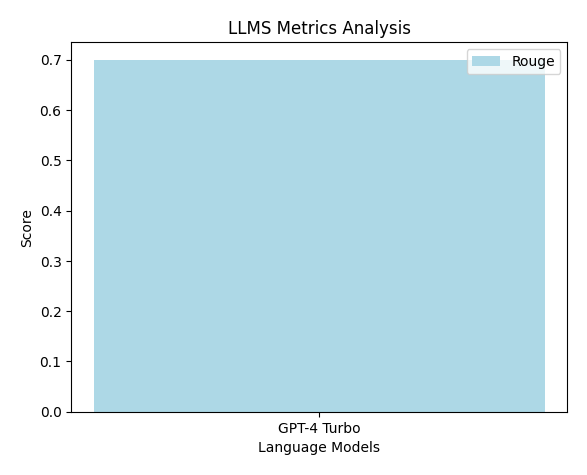
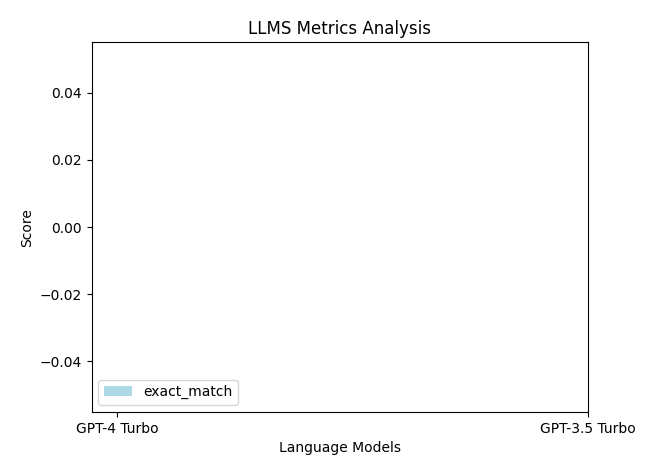
update

diff --git a/llm_code/pagesOfApp/pages/LLMS_Analysis.py b/llm_code/pagesOfApp/pages/LLMS_Analysis.py
@@ -1,3 +1,6 @@
+import logging
+from rouge_score import rouge_scorer
+
 import streamlit as st
 from openai import OpenAI
 import numpy as np
@@ -8,17 +11,17 @@ import sys
 sys.path.append('../..')
 from llm_code.app.api.endpoints.analysisAPI import create_prompt
 from llm_code.pagesOfApp.style.LLMS_Analysis_style import configure_streamlit_theme
-from llm_code.llm_metrics import Metrics
-import logging
-
+from llm_code.llm_metrics import Metrics, MetricsModel
+from evaluate import load
+from datasets import load_metric
 
 # Set up your OpenAI API key
-client = OpenAI(api_key=)
+client = OpenAI(api_key="")
 
 st.markdown(configure_streamlit_theme(), unsafe_allow_html=True)
 
 # Define available metrics
-available_metrics = ["Rouge", "Coherence", "Fluency", "Toxicity", "Bleu"]
+available_metrics = ["Rouge", "exact_match", "Fluency", "Toxicity", "Bleu"]
 
 # Define available language models with their corresponding model IDs
 available_models = {
@@ -51,7 +54,6 @@ async def add_prompt(prompt_text):
             print("Prompt added successfully!")
         else:
             print("Failed to add prompt. Please try again later.")
-
     except Exception as e:
         print(f"Error: {e}")
         logging.error(f"Error adding prompt: {e}")
@@ -67,16 +69,12 @@ def handle_database(prompt_text):
         st.error(f"Error adding prompt to database: {e}")
 
 
-# Main Streamlit app
 st.title("LLMS Response Generator and Metrics Analysis")
 
 # User input section for analysis
-prompt_analyze = st.text_input("Enter Prompt to Analyze", "Enter your prompt here...")
-selected_models = st.multiselect("Select Language Models", list(available_models.keys()), default=["GPT-4 Turbo"])
-selected_metrics = st.multiselect("Select Metrics", available_metrics, default=["Rouge"])
-
-# Instantiate the Metrics class
-metrics = Metrics()
+prompt_analyze = st.text_input("Enter Prompt to Analyze", placeholder="Enter your prompt here...")
+selected_model = st.multiselect("Select Language Model", available_models)
+selected_metrics = st.multiselect("Select Metrics", available_metrics)
 
 # Generate response button for analysis
 if st.button("Generate Response"):
@@ -93,7 +91,7 @@ if st.button("Generate Response"):
         metric_scores = {metric: [] for metric in selected_metrics}
 
         # Generate response for each selected model
-        for model_name in selected_models:
+        for model_name in selected_model:  # Change selected_model to selected_models
             model_id = available_models[model_name]
             response = client.chat.completions.create(
                 model=model_id,
@@ -102,33 +100,26 @@ if st.button("Generate Response"):
             )
             response_text = response.choices[0].message.content.strip()
             responses.append(response_text)
-            # Set predictions and references for ROUGE metric
-            Metrics.predictions = [response_text]
-            print('************qustions:***********')
-            print(Metrics.predictions)
-            Metrics.references = [prompt_analyze]
-            print('****************answer*************')
-            print(Metrics.references)
 
             # Calculate metrics for the response
             for metric in selected_metrics:
                 if metric == "Rouge":
-                    # For ROUGE, compute the score using the Metrics class
-                    score = metrics.rouge_score()
-                    print(f"{model_name} {metric} score:{score}")
+                    # For ROUGE, compute the score using RougeScorer
+                    score = Metrics(predictions=[response_text], references=[prompt_analyze]).rouge_score()
                 elif metric == "Bleu":
                     # For BLEU, compute the score using the Metrics class
-                    score = metrics.bleu_score()
-                    print(f"{model_name} {metric} score:{score}")
+                    score = Metrics(predictions=[response_text], references=[prompt_analyze]).bleu_score()
                 elif metric == "Fluency":
                     # For Fluency, compute the score using the Metrics class
-                    score = metrics.fluency_score()
-                elif metric == "Coherence":
+                    score = MetricsModel(predictions=[response_text],
+                                         model_type=model_name.lower()).fluency_score()  # Use model_name instead of selected_model
+                elif metric == "exact_match":
                     # For Coherence, compute the score using the Metrics class
-                    score = metrics.coherence_score()
+                    score = Metrics(predictions=[response_text], references=[prompt_analyze]).exact_match_score()
                 elif metric == "Toxicity":
                     # For Toxicity, compute the score using the Metrics class
-                    score = metrics.toxicity_score()
+                    score = MetricsModel(predictions=[response_text],
+                                         model_type=model_name.lower()).toxicity_score()  # Use model_name instead of selected_model
                 else:
                     # Handle unknown metric
                     score = np.nan
@@ -136,7 +127,7 @@ if st.button("Generate Response"):
 
         # Display generated responses
         for i, response in enumerate(responses):
-            st.subheader(f"Response from {selected_models[i]}")
+            st.subheader(f"Response from {selected_model[i]}")
             st.text_area(f"Response {i + 1}", response, height=200)
 
         # Display metric scores
@@ -144,13 +135,13 @@ if st.button("Generate Response"):
         for metric in selected_metrics:
             st.write(f"{metric}:")
             for i, score in enumerate(metric_scores[metric]):
-                st.write(f"  - {selected_models[i]}: {score}")
+                st.write(f"  - {selected_model[i]}: {score}")
 
         # Create grouped bar chart for metrics analysis
         fig, ax = plt.subplots()
         metrics_labels = list(metric_scores.keys())
         bar_width = 0.2
-        x = np.arange(len(selected_models))
+        x = np.arange(len(selected_model))
 
         for i, metric in enumerate(metrics_labels):
             scores = metric_scores[metric]
@@ -160,7 +151,7 @@ if st.button("Generate Response"):
         ax.set_ylabel('Score')
         ax.set_title('LLMS Metrics Analysis')
         ax.set_xticks(x + bar_width * (len(metrics_labels) - 1) / 2)
-        ax.set_xticklabels(selected_models)
+        ax.set_xticklabels(selected_model)
         ax.legend()
 
         # Show the plot

diff --git a/llm_code/llm_metrics.py b/llm_code/llm_metrics.py
@@ -3,7 +3,10 @@ from evaluate import load
 from datasets import load_metric
 
 from transformers import pipeline
+import asyncio
+import sys
 
+sys.path.append('../..')
 
 class Metrics:
     def __init__(self, predictions, references):
@@ -38,7 +41,7 @@ class MetricsModel:
         return results['toxicity']
 
     def fluency_score(self):
-        perplexity = load("perplexity", module_type="metric")
+        perplexity = load("perplexity", module_type="measurement")
         results = perplexity.compute(predictions=self.predictions, model_id=self.model_type)
         print(f"Fluency: {results}")
         return results

diff --git a/llm_code/pagesOfApp/pages/signup.py b/llm_code/pagesOfApp/pages/signup.py
@@ -59,9 +59,9 @@ def signup():
     st.title("Signup")
 
     # Collect user input
-    username = st.text_input("Username")
-    email = st.text_input("Email")
-    password = st.text_input("Password", type="password")
+    username = st.text_input("Username", placeholder="Enter your username")
+    email = st.text_input("Email", placeholder="Enter your email")
+    password = st.text_input("Password", type="password", placeholder="Enter your password")
     user_type = st.selectbox("User Type", ["prompt_engineer", "model_developer"])
 
     # Signup button

diff --git a/llm_code/app/api/endpoints/UsersApi.py b/llm_code/app/api/endpoints/UsersApi.py
@@ -2,6 +2,10 @@ import logging
 import uvicorn
 from fastapi import FastAPI, HTTPException
 from sqlalchemy import Table, Column, Integer, String, Enum
+import asyncio
+import sys
+
+sys.path.append('../..')
 from llm_code.app.api.models.users import users
 from llm_code.app.core.config.db import con
 from llm_code.schemas.user import User

diff --git a/llm_code/app/api/endpoints/analysisAPI.py b/llm_code/app/api/endpoints/analysisAPI.py
@@ -3,6 +3,10 @@ import logging
 import uvicorn
 from fastapi import FastAPI, HTTPException
 from sqlalchemy.exc import SQLAlchemyError
+import asyncio
+import sys
+
+sys.path.append('../..')
 from llm_code.app.api.models.prompts import prompts
 from llm_code.app.core.config.db import con
 from llm_code.schemas.prompt import Prompt

diff --git a/llm_code/app/core/config/db.py b/llm_code/app/core/config/db.py
@@ -1,5 +1,9 @@
 from sqlalchemy import create_engine, MetaData
 from sqlalchemy.exc import OperationalError
+import asyncio
+import sys
+
+sys.path.append('../..')
 
 # Define the database connection
 engine = create_engine('mysql+pymysql://root:12235tal@localhost:3306/LLM_Evaluator')

diff --git a/llm_code/app/api/models/prompts.py b/llm_code/app/api/models/prompts.py
@@ -1,6 +1,10 @@
 # models/prompts.py
 import sqlalchemy
 from sqlalchemy import Table, Column, Integer, Text, String, DateTime, ForeignKey,select
+import asyncio
+import sys
+
+sys.path.append('../..')
 from llm_code.app.core.config.db import meta
 
 prompts = Table(

diff --git a/llm_code/app/api/models/llm_responses.py b/llm_code/app/api/models/llm_responses.py
@@ -1,5 +1,9 @@
 # models/prompts.py
 from sqlalchemy import Table, Column, Integer, Text, String, DateTime, ForeignKey, JSON
+import asyncio
+import sys
+
+sys.path.append('../..')
 from llm_code.app.core.config.db import meta
 
 # models/llm_responses.py

diff --git a/llm_code/app/api/models/analysis_results.py b/llm_code/app/api/models/analysis_results.py
@@ -1,4 +1,8 @@
 from sqlalchemy import Table, Column, Integer, String, ForeignKey, Float
+import asyncio
+import sys
+
+sys.path.append('../..')
 from llm_code.app.core.config.db import meta
 
 analysis_results = Table(

diff --git a/llm_code/app/api/models/user_permissions.py b/llm_code/app/api/models/user_permissions.py
@@ -1,4 +1,8 @@
 from sqlalchemy import Table, Column, Integer, String, ForeignKey
+import asyncio
+import sys
+
+sys.path.append('../..')
 from llm_code.app.core.config.db import meta
 
 # models/user_permissions.py

diff --git a/llm_code/app/api/models/llm_models.py b/llm_code/app/api/models/llm_models.py
@@ -1,4 +1,8 @@
 from sqlalchemy import Table, Column, Integer, String, ForeignKey
+import asyncio
+import sys
+
+sys.path.append('../..')
 from llm_code.app.core.config.db import meta
 
 # models/llm_models.py

diff --git a/llm_code/app/api/models/users.py b/llm_code/app/api/models/users.py
@@ -1,4 +1,8 @@
 from sqlalchemy import Table, Column, Integer, String, Enum
+import asyncio
+import sys
+
+sys.path.append('../..')
 from llm_code.app.core.config.db import meta
 
 users = Table(
